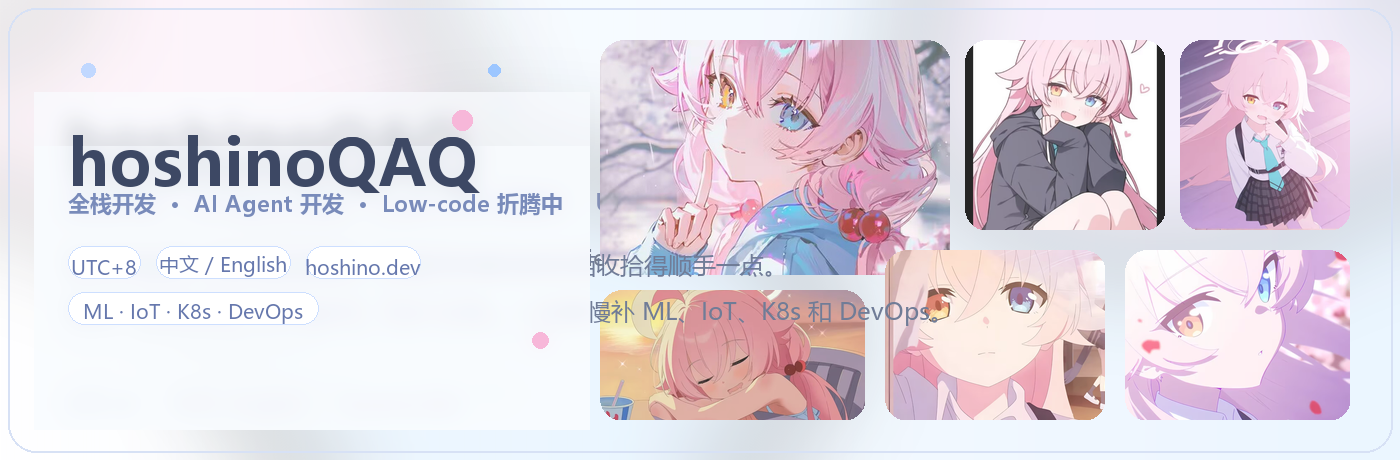
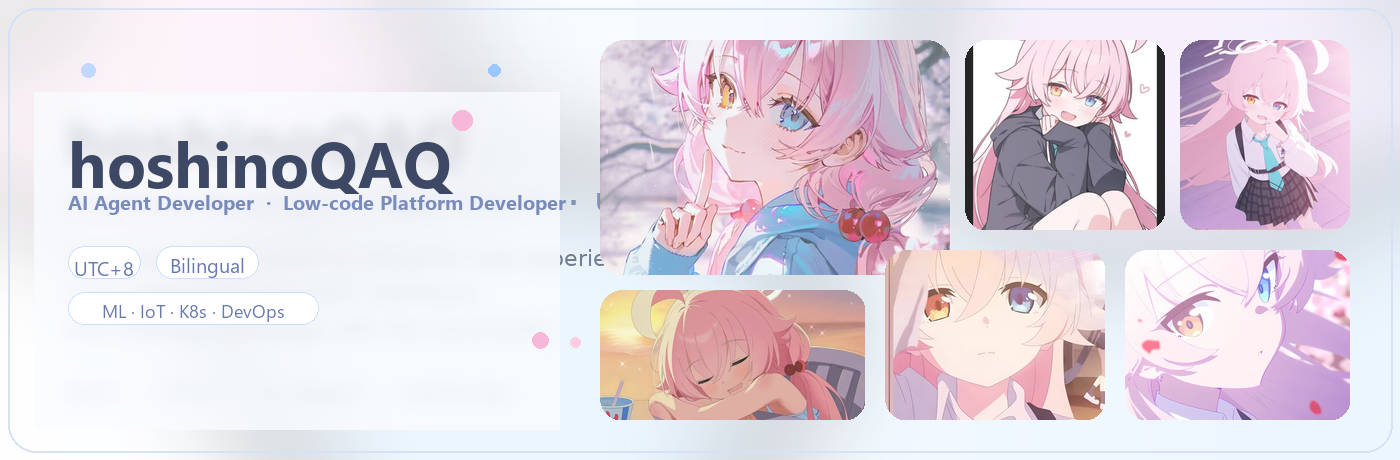
Polish profile labels and simplify intro

diff --git a/README.md b/README.md
@@ -5,12 +5,7 @@
 <h1 align="center">hoshinoQAQ</h1>
 
 <p align="center">
-  <b>Full Stack Developer</b> · <b>AI Agent Developer</b> · <b>Low-code Builder</b>
-</p>
-
-<p align="center">
-  喜欢把脑洞一点点做成真的，也喜欢把复杂的东西收拾得顺手一点。<br/>
-  现在一边做全栈、AI Agent、low-code，一边慢慢补 ML、IoT、K8s 和 DevOps。
+  <b>AI Agent Developer</b> · <b>Low-code Platform Developer</b>
 </p>
 
 <p align="center">
@@ -37,16 +32,11 @@
 <table>
 <tr>
 <td width="28%" valign="top">
-
-<img src="./assets/images/profile-card.png" alt="profile card" width="100%" />
-
-<br/>
-
 **Profile**
 
-- 🌏 坐标：UTC+8
-- 🧭 方向：全栈 / AI Agent / Low-code
-- ✨ 学习中：ML / IoT / K8s / DevOps
+- 🌏 Timezone: UTC+8
+- 🧭 Focus: AI Agent / Low-code Platform
+- ✨ Learning: ML / IoT / K8s / DevOps
 - 🐱 GitHub: [`@hoshinoQAQ`](https://github.com/hoshinoQAQ)
 
 </td>
@@ -54,7 +44,7 @@
 
 ## ✦ About Me
 
-- 代码苦手，但还是很爱折腾；最近在学习 ML、IoT、K8s 和 DevOps ing~。
+- 代码苦手，最近在学习 ML、IoT、K8s 和 DevOps ing~。
 
 <br/>
 
